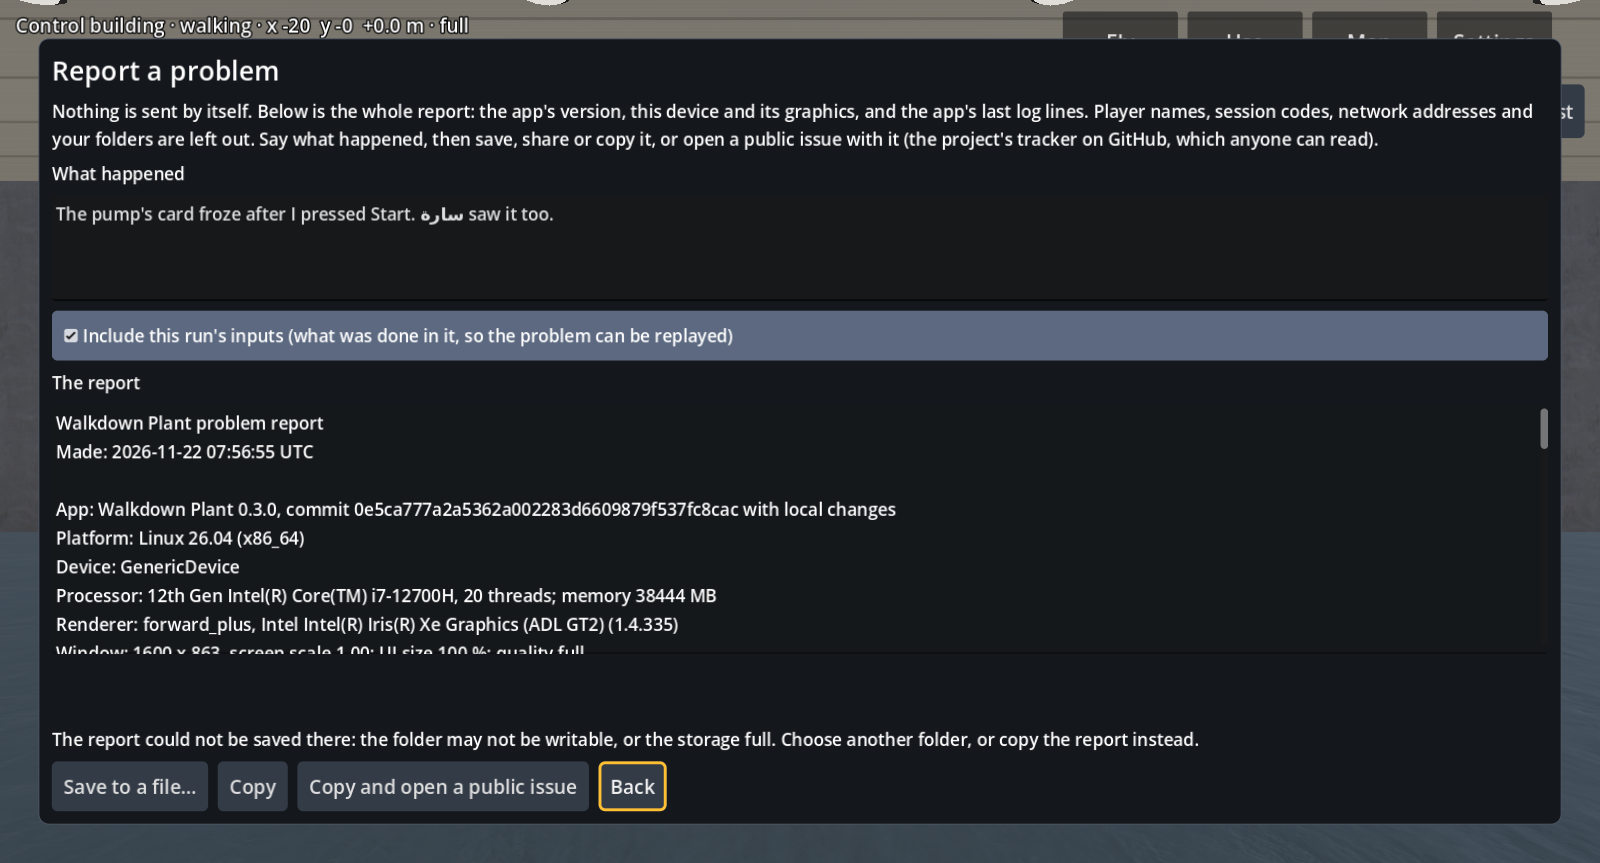
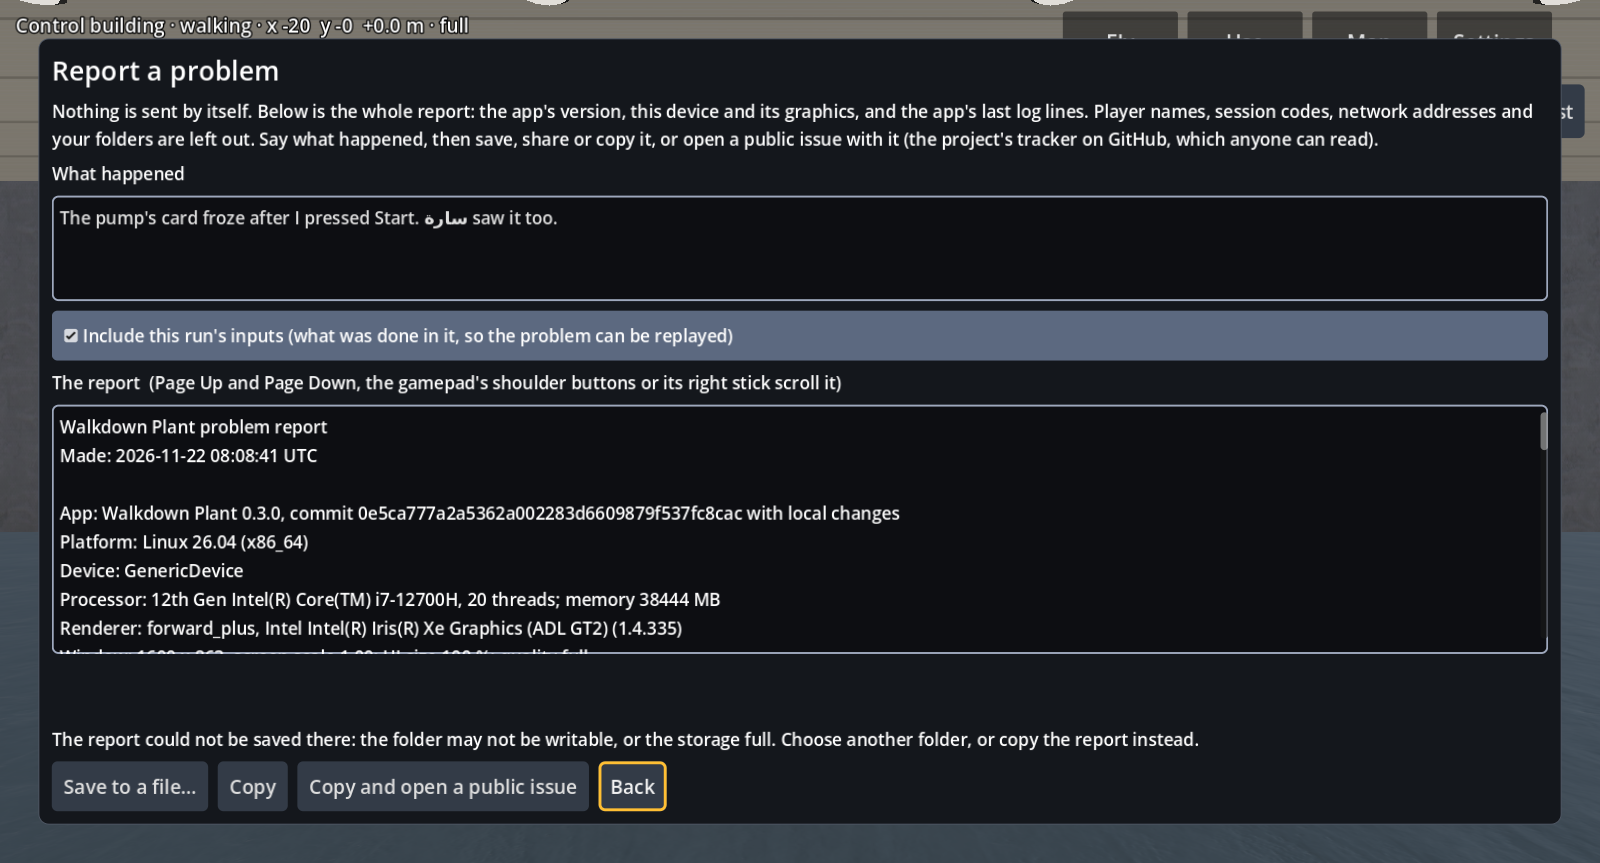
UX evidence: Report a problem (#446), round 3

Changed region(s): [[0.0312, 0.5724, 0.5625, 0.7833], [0.0312, 0.4218, 0.9688, 0.5423], [0.0312, 0.2109, 0.9688, 0.2711]]

diff --git a/MANIFEST.md b/MANIFEST.md
@@ -1,30 +1,30 @@
-# UX evidence: Report a problem (#446), round 2
+# UX evidence: Report a problem (#446), round 3
 
-Synthetic (the invented plant), commit 01d2138f06380cec41d8bfe625e04aac2a3fbafd. `apps/plant3d/tests/report_shots.gd` at the head, switched on, OFFSCREEN_GODOT_DATA a folder of its own: desk_uidefault (1600x900, 100 %), desk_ui2 (1366x768, 200 %), phone_uidefault (2220x1080 phone layout), small640_desk_ui2 (640x360, --ui-size=2). States: report_about, report_shown, report_written (a description in Latin and Arabic), report_inputs (ticked, the report scrolled to), report_save_failed, report_copied.
+Synthetic (the invented plant), commit 987393477dc96489b74a76fef32c0718f705ee31. `apps/plant3d/tests/report_shots.gd` at the head, switched on, OFFSCREEN_GODOT_DATA a folder of its own: desk_uidefault (1600x900, 100 %), desk_ui2 (1366x768, 200 %), phone_uidefault (2220x1080 phone layout), small640_desk_ui2 (640x360, --ui-size=2). States: report_about, report_shown, report_written (a description in Latin and Arabic), report_inputs (ticked, the report scrolled to), report_save_failed, report_copied.
 
 ```
-e33dd444f95bd5e83d1cd6fe81fcf8d61b87a0fe1ae871e025a27f3eeab21567  desk_ui2_report_about.png
-f6e9e1b3a5cd3f9722aa443c5b8fee7b1ee3dea8b51b9d901dfe2c77814eb31c  desk_ui2_report_copied.png
-daac9a2cd6a4ab6f99c68afef9daef9d301121b2cdc1f97fe727a0312b33f232  desk_ui2_report_inputs.png
-89101c8c5bac49b03ec6c72c682fbce6eb30cc697746a363ea0978435376093f  desk_ui2_report_save_failed.png
-9d5717187a687556f718dfaf8fcc24318e13ca75bbcf87ee79e9c8e5b1b4f934  desk_ui2_report_shown.png
-e9dcd2d6d64560549cbf8de57afebc8305d742ab4fc65b1125dc0fec3208f609  desk_ui2_report_written.png
-cf64f0405a81f29d1fa1f1d1e6d0d2782222568d0b8c6b632a53e97b78e0d2da  desk_uidefault_report_about.png
-fc3efd2497f19def5cf735e70a45ef873de059c6753b0da1c3f07e594d519b34  desk_uidefault_report_copied.png
-4fc2622f9141965079bd54b7484de369f95f4b1d32c71873ca40f0355e24b180  desk_uidefault_report_inputs.png
-1697a73f3fde783593c1d0584fba0eaed97bbef87a5e937d67a4e99ef2102c6f  desk_uidefault_report_save_failed.png
-e542e2b197f96a6158b1cda7cceadff2535d15252823a8158ffc2d5b4b51465e  desk_uidefault_report_shown.png
-315e53e5d4ff10d8c735174c7441081383e32b52a8adb6a9a5e8106afca7125a  desk_uidefault_report_written.png
-c261f66409bc34900149feae6a0e2145849bfa59e50a462f43bce1817c1e7950  phone_uidefault_report_about.png
-bfa53011d2a389d9608821bb68f105897a38d2a3fb1d0d77d11e6587a6b8c1ba  phone_uidefault_report_copied.png
-662e0c4bd1e25e13bf8c8b19a9b1cf8bf0abb05ff563ddcaf2b4e3fe6bb6631a  phone_uidefault_report_inputs.png
-14c71c6b6e51765f03ead28449ffca15c96e3278e014ebf5046749332d6cc8d2  phone_uidefault_report_save_failed.png
-5b5e99efcae2b3ce1c53ed13fe5d9573aab4743148d1e0169877b81654f1c171  phone_uidefault_report_shown.png
-3cc6b85dfcbecbb48e6ad102e0d941343ab638f5b4bbfd5ef63ddac6ab97e5b1  phone_uidefault_report_written.png
-903ad3549d913c4bc413bec716f576fb0c6d3aeed2f1f4c3944f0daaf05141f7  small640_desk_ui2_report_about.png
-e87360b387b284fc7d1df39980122781ed4e79c1d16f64a696a8d143cde054e1  small640_desk_ui2_report_copied.png
-2bd8ee2967c3feeafafd4dd6dba0ace41ab4fa4e41ff3302ee4185101bdd1981  small640_desk_ui2_report_inputs.png
-0dc523b5b5a7bdbd435cdbadd39b8ee9711ec7d0a9254575965737828c6eaf1a  small640_desk_ui2_report_save_failed.png
-6fd8ec92efd3df4e2e318fc609ef52ddd2e0a7a7b255c89ae6f5f127db40c71d  small640_desk_ui2_report_shown.png
-61413a586d0aac1971d4d01a73e78635f432b27dcc8e446f57d796d2f8a2d82f  small640_desk_ui2_report_written.png
+ed4607e9a813703c5e51a87c1e9f01cc4df2df5b48a25f3ea336532822f112dc  desk_ui2_report_about.png
+a9e8a464fc63300002bd58403978941a2dec7dbba2f35b762c06b0161ea1aa2c  desk_ui2_report_copied.png
+82e3036e8e16a1e1fa7d5c28fd25f612f40783da3d197f4cc7deaef8944d6b68  desk_ui2_report_inputs.png
+3d8d5057e101b9084cf76b03a09778c1b323935724edf2e3ef70efe5b9308057  desk_ui2_report_save_failed.png
+c8ce9f26072cf6dc200aff1120e8aa12caa61d63dbf034c53175f7cf853e0af5  desk_ui2_report_shown.png
+ca26f8f1ae45e28a5c702633b4e1416ee9519973a55f2400b03a78b28a517fb4  desk_ui2_report_written.png
+54a36af6dc986e2c633e4331f27d997e99ce7d71ba64ebcb0b779bee181f10d9  desk_uidefault_report_about.png
+94419d427f1c9ee621a2211c5f1330ca1218ac24a5d5ec716b23a1f5b8ac30b3  desk_uidefault_report_copied.png
+f0bb8caf9f2d0d0d59edf63fbfa67e64df6259d464d15f1be344a7d98f65ac7a  desk_uidefault_report_inputs.png
+aa47fd9959a8effef3b0cbd91ebe24a68cb3005c1d06b9b0059e65235d3c377b  desk_uidefault_report_save_failed.png
+b7d15fcbb1cfa1e29b229ecfbd0cfb74f41a5d53d3d141023fdd720090c46211  desk_uidefault_report_shown.png
+cd4b96ba7ac5b3af76c31ea40cdea7eee3f9b2a45eee632082f3fcf27cff7a59  desk_uidefault_report_written.png
+a0b8f3be74f860dcb1827f4b586fa5019c43db425fa212aa5df93c183bb064d9  phone_uidefault_report_about.png
+c9dd23223f91260aaf1fa11ee4121dd7546d62158ff64aca732de59eb5d524cb  phone_uidefault_report_copied.png
+e81de9cc953d41e0f4d2e40d7e9879dc0dc183a4ca5cd72712c53509072d8fca  phone_uidefault_report_inputs.png
+5fe5d922f80a02f6a235d91037d25590d0936f26581b175d7c1fe298113c2728  phone_uidefault_report_save_failed.png
+081dab69841074c26dd10f8c4eb73bdb945ac39d4efa6bf1e9c03f19181d0742  phone_uidefault_report_shown.png
+8fc6933df69ab76484d5a92276a85d3085568c6b2ba1b62869482e52da5c3b25  phone_uidefault_report_written.png
+2e6534db57ba41d6d824a0f6bb71c9d269135dd1f8833f4b82f02cd488035da7  small640_desk_ui2_report_about.png
+1b55955f00442d5b8a9462cbf7432367e7793fafffa8d5ac0d5c89e07d2b49ad  small640_desk_ui2_report_copied.png
+ec0cfd86e71bdda7c2f968a59cecc203c29c1eb06661043467531fc71c7cdc85  small640_desk_ui2_report_inputs.png
+79d532739761455d8a9fcc7dfa5c02d281b7897ccf03be636f488b7e146eca0c  small640_desk_ui2_report_save_failed.png
+959d43b15338ec5500e1df1f0ef27ab6d4b4170c4d3cb184f65f14c53579ef9f  small640_desk_ui2_report_shown.png
+2fc1bb1b42defa8870e50975d1e6de63e43fb25335c371fe535308300f965fe4  small640_desk_ui2_report_written.png
 ```
